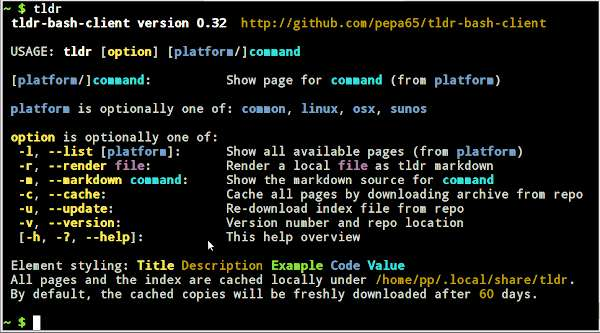
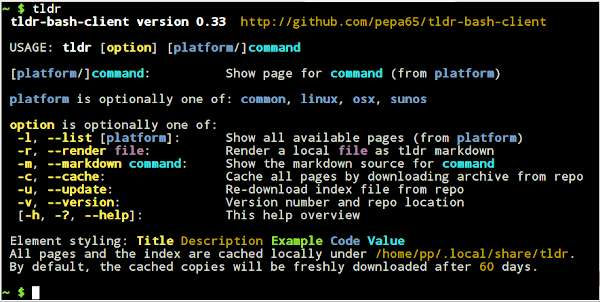
Release 0.33 Fix new format parser

Changed region(s): [[0.0, 0.0, 1.0, 1.0], [0.36, 0.2086, 0.84, 0.2682], [0.33, 0.7152, 0.36, 0.745]]

diff --git a/README.md b/README.md
@@ -1,6 +1,6 @@
 # tldr-bash-client
 
-* version 0.32
+* version 0.33
 * https://github.com/pepa65/tldr-bash-client
 
 ### Bash client for tldr: community driven man-by-example
